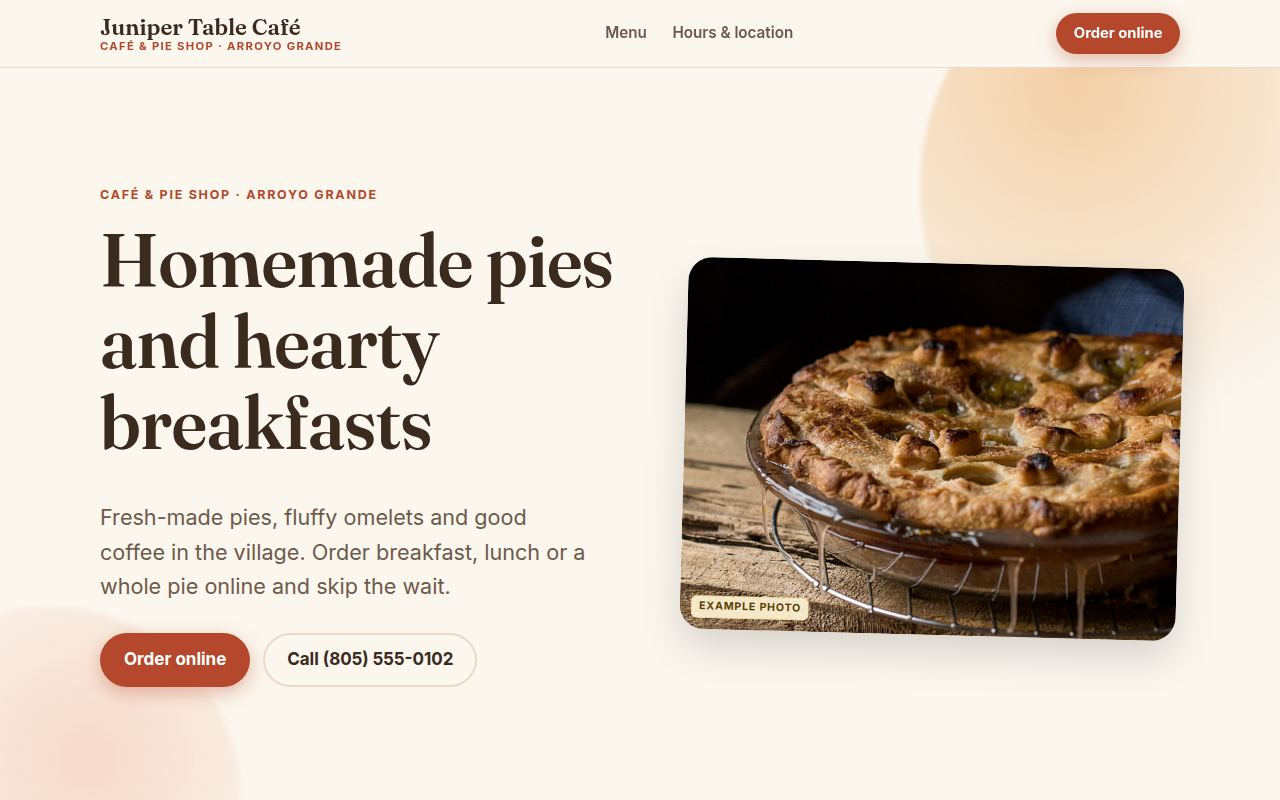
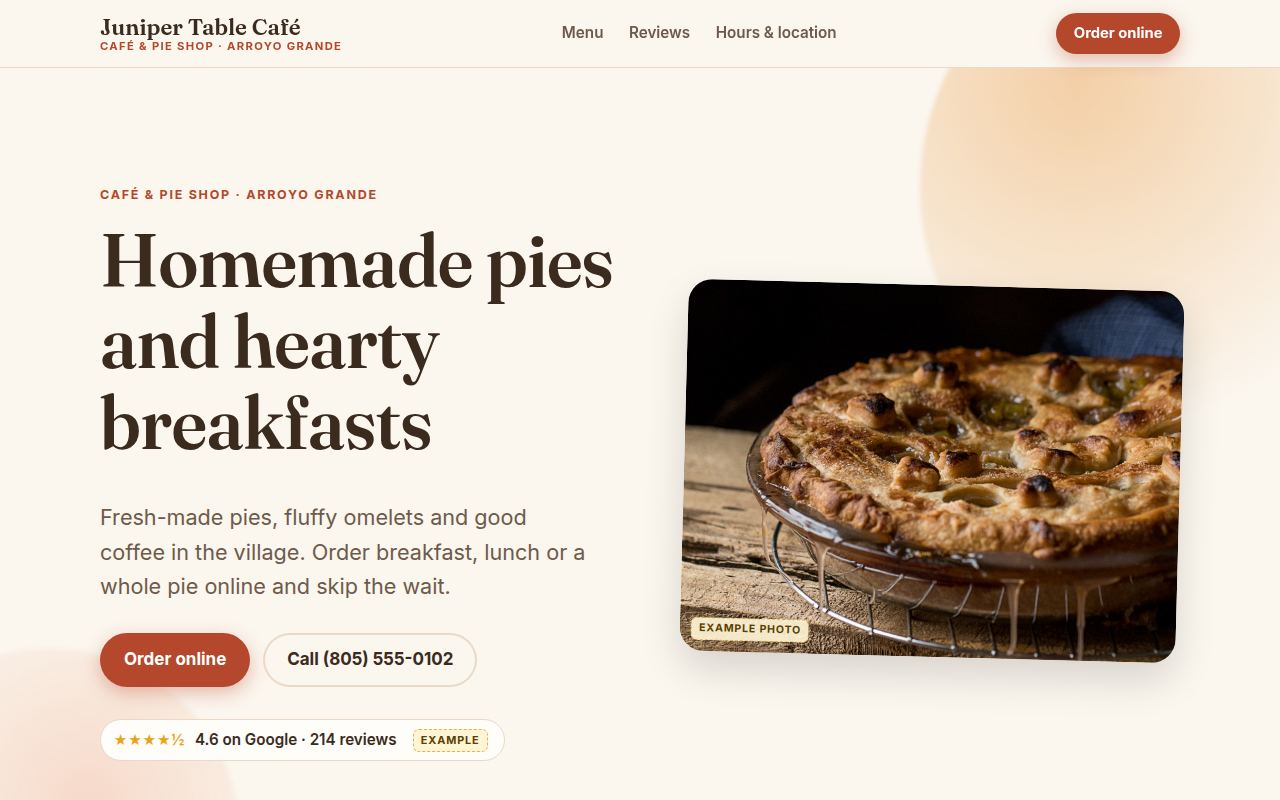
Example sites: add written example reviews, each tagged Example

Changed region(s): [[0.5312, 0.3125, 0.9375, 0.8438], [0.0625, 0.875, 0.4062, 0.9688], [0.4375, 0.0312, 0.6562, 0.0625]]

diff --git a/examples/el-girasol-panaderia/index.html b/examples/el-girasol-panaderia/index.html
@@ -148,7 +148,7 @@ dialog.flow::backdrop { background: rgba(20, 16, 18, .55); }
   <div class="wrap">
     <a class="brand" href="#top">Panadería El Girasol<small>Mexican Bakery · San Luis Obispo</small></a>
     <nav class="links" aria-label="Main">
-      <a href="#menu">Menu</a><a href="#visit">Hours &amp; location</a>
+      <a href="#menu">Menu</a><a href="#reviews">Reviews</a><a href="#visit">Hours &amp; location</a>
     </nav>
     <button class="btn small" data-open-flow>Order online</button>
   </div>
@@ -165,7 +165,7 @@ dialog.flow::backdrop { background: rgba(20, 16, 18, .55); }
         <button class="btn" data-open-flow>Order online</button>
         <a class="btn ghost" href="tel:+18055550101">Call (805) 555-0101</a>
       </div>
-      
+      <span class="rating-pill"><span class="st">★★★★½</span>4.7 on Google · 318 reviews <span class="tag">Example</span></span>
       </div>
       <figure class="hero-photo"><img src="images/photo-1.jpg" alt="Sugar-topped Mexican sweet bread" fetchpriority="high"><span class="photo-tag">Example photo</span></figure>
     </div>
@@ -184,6 +184,16 @@ dialog.flow::backdrop { background: rgba(20, 16, 18, .55); }
       <div class="menu"><div class="menu-group reveal"><h3>Pan Dulce <span class="tag">Example</span></h3><ul><li><div><strong>Conchas</strong><span class="desc">Vanilla or chocolate</span></div><span class="price">$1.50</span></li><li><div><strong>Cuernos</strong><span class="desc">Sweet crescent rolls</span></div><span class="price">$1.75</span></li><li><div><strong>Orejas</strong><span class="desc">Flaky and caramelized</span></div><span class="price">$1.75</span></li><li><div><strong>Empanadas</strong><span class="desc">Pumpkin, pineapple or cream</span></div><span class="price">$2.00</span></li></ul></div>
 <div class="menu-group reveal"><h3>Tamales <span class="tag">Example</span></h3><ul><li><div><strong>Beef</strong><span class="desc">Red chile</span></div><span class="price">$3.00</span></li><li><div><strong>Jalapeño &amp; Cheese</strong><span class="desc">A customer favorite</span></div><span class="price">$3.00</span></li><li><div><strong>Pork</strong><span class="desc">Red chile</span></div><span class="price">$3.00</span></li><li><div><strong>By the Dozen</strong><span class="desc">Mix and match</span></div><span class="price">$30</span></li></ul></div>
 <div class="menu-group reveal"><h3>Bread &amp; Drinks <span class="tag">Example</span></h3><ul><li><div><strong>Bolillos</strong><span class="desc">Baked fresh every morning</span></div><span class="price">$0.75</span></li><li><div><strong>Champurrado</strong><span class="desc">Hot chocolate atole</span></div><span class="price">$3.50</span></li><li><div><strong>Café de Olla</strong><span class="desc">Cinnamon &amp; piloncillo</span></div><span class="price">$3.00</span></li></ul></div></div>
+    </div>
+  </section>
+
+  <section id="reviews" class="alt">
+    <div class="wrap">
+      <h2>What people say</h2>
+      <p class="section-intro">4.7 stars from 318 reviews on Google. These reviews are examples.</p>
+      <div class="reviews"><figure class="review reveal"><div class="review-stars" aria-label="5 out of 5 stars">★★★★★</div><blockquote>The conchas are still warm at 6 in the morning. I grab a dozen for the office every Friday and they are gone by nine.</blockquote><figcaption>Example review · 3 weeks ago</figcaption></figure>
+<figure class="review reveal"><div class="review-stars" aria-label="5 out of 5 stars">★★★★★</div><blockquote>Best tamales in town, hands down. The jalapeño and cheese ones are my favorite, and ordering ahead online made pickup so easy.</blockquote><figcaption>Example review · 2 months ago</figcaption></figure>
+<figure class="review reveal"><div class="review-stars" aria-label="4 out of 5 stars">★★★★</div><blockquote>Friendly staff and a huge selection of pan dulce. Gets busy on weekends, so order online and skip the line.</blockquote><figcaption>Example review · a month ago</figcaption></figure></div>
     </div>
   </section>
 

diff --git a/examples/wren-nail-studio/index.html b/examples/wren-nail-studio/index.html
@@ -148,7 +148,7 @@ dialog.flow::backdrop { background: rgba(20, 16, 18, .55); }
   <div class="wrap">
     <a class="brand" href="#top">Wren Nail Studio<small>Nail Studio · Morro Bay</small></a>
     <nav class="links" aria-label="Main">
-      <a href="#menu">Services</a><a href="#visit">Hours &amp; location</a>
+      <a href="#menu">Services</a><a href="#reviews">Reviews</a><a href="#visit">Hours &amp; location</a>
     </nav>
     <button class="btn small" data-open-flow>Book now</button>
   </div>
@@ -165,7 +165,7 @@ dialog.flow::backdrop { background: rgba(20, 16, 18, .55); }
         <button class="btn" data-open-flow>Book now</button>
         <a class="btn ghost" href="tel:+18055550103">Call (805) 555-0103</a>
       </div>
-      
+      <span class="rating-pill"><span class="st">★★★★½</span>4.9 on Google · 167 reviews <span class="tag">Example</span></span>
       </div>
       <figure class="hero-photo"><img src="images/photo-1.jpg" alt="Sage green manicure" fetchpriority="high"><span class="photo-tag">Example photo</span></figure>
     </div>
@@ -184,6 +184,16 @@ dialog.flow::backdrop { background: rgba(20, 16, 18, .55); }
       <div class="menu"><div class="menu-group reveal"><h3>Manicures <span class="tag">Example</span></h3><ul><li><div><strong>Classic Manicure</strong><span class="desc">Shape, cuticle care, polish</span></div><span class="price">$25</span></li><li><div><strong>Gel Manicure</strong><span class="desc">Long-lasting shine, no chips</span></div><span class="price">$40</span></li><li><div><strong>Dip Powder</strong><span class="desc">Strong, natural-looking finish</span></div><span class="price">$45</span></li></ul></div>
 <div class="menu-group reveal"><h3>Pedicures <span class="tag">Example</span></h3><ul><li><div><strong>Classic Pedicure</strong><span class="desc">Soak, scrub, massage, polish</span></div><span class="price">$35</span></li><li><div><strong>Gel Pedicure</strong><span class="desc">Classic pedicure with gel polish</span></div><span class="price">$50</span></li><li><div><strong>Deluxe Spa Pedicure</strong><span class="desc">Extra massage, mask and hot towels</span></div><span class="price">$60</span></li></ul></div>
 <div class="menu-group reveal"><h3>Enhancements <span class="tag">Example</span></h3><ul><li><div><strong>Full Set Acrylic</strong><span class="desc">Any shape and length</span></div><span class="price">$55</span></li><li><div><strong>Fill</strong><span class="desc">Keep your set looking fresh</span></div><span class="price">$40</span></li><li><div><strong>Nail Art</strong><span class="desc">Designs, chrome, gems</span></div><span class="price">from $5</span></li></ul></div></div>
+    </div>
+  </section>
+
+  <section id="reviews" class="alt">
+    <div class="wrap">
+      <h2>What people say</h2>
+      <p class="section-intro">4.9 stars from 167 reviews on Google. These reviews are examples.</p>
+      <div class="reviews"><figure class="review reveal"><div class="review-stars" aria-label="5 out of 5 stars">★★★★★</div><blockquote>So clean and relaxing. The heated massage chairs are amazing and my gel manicure lasted almost three weeks.</blockquote><figcaption>Example review · 2 weeks ago</figcaption></figure>
+<figure class="review reveal"><div class="review-stars" aria-label="5 out of 5 stars">★★★★★</div><blockquote>They got my nail art exactly how I pictured it. Booking online took less than a minute.</blockquote><figcaption>Example review · a month ago</figcaption></figure>
+<figure class="review reveal"><div class="review-stars" aria-label="5 out of 5 stars">★★★★★</div><blockquote>Calm, friendly and never rushed. Best pedicure I have had on the Central Coast.</blockquote><figcaption>Example review · 3 months ago</figcaption></figure></div>
     </div>
   </section>
 

diff --git a/examples/juniper-table-cafe/index.html b/examples/juniper-table-cafe/index.html
@@ -148,7 +148,7 @@ dialog.flow::backdrop { background: rgba(20, 16, 18, .55); }
   <div class="wrap">
     <a class="brand" href="#top">Juniper Table Café<small>Café &amp; Pie Shop · Arroyo Grande</small></a>
     <nav class="links" aria-label="Main">
-      <a href="#menu">Menu</a><a href="#visit">Hours &amp; location</a>
+      <a href="#menu">Menu</a><a href="#reviews">Reviews</a><a href="#visit">Hours &amp; location</a>
     </nav>
     <button class="btn small" data-open-flow>Order online</button>
   </div>
@@ -165,7 +165,7 @@ dialog.flow::backdrop { background: rgba(20, 16, 18, .55); }
         <button class="btn" data-open-flow>Order online</button>
         <a class="btn ghost" href="tel:+18055550102">Call (805) 555-0102</a>
       </div>
-      
+      <span class="rating-pill"><span class="st">★★★★½</span>4.6 on Google · 214 reviews <span class="tag">Example</span></span>
       </div>
       <figure class="hero-photo"><img src="images/photo-1.jpg" alt="A golden homemade pie" fetchpriority="high"><span class="photo-tag">Example photo</span></figure>
     </div>
@@ -185,6 +185,16 @@ dialog.flow::backdrop { background: rgba(20, 16, 18, .55); }
 <div class="menu-group reveal"><h3>Lunch <span class="tag">Example</span></h3><ul><li><div><strong>Turkey Sandwich</strong><span class="desc">On fresh-baked bread</span></div><span class="price">$13.50</span></li><li><div><strong>Club Sandwich</strong><span class="desc">The house special</span></div><span class="price">$14.50</span></li><li><div><strong>Soup of the Day</strong><span class="desc">Cup or bowl</span></div><span class="price">$7.95</span></li></ul></div>
 <div class="menu-group reveal"><h3>Pies &amp; Bakery <span class="tag">Example</span></h3><ul><li><div><strong>Key Lime Pie</strong><span class="desc">Whole 9-inch pie</span></div><span class="price">$24</span></li><li><div><strong>Pumpkin Pie</strong><span class="desc">Seasonal favorite</span></div><span class="price">$22</span></li><li><div><strong>Pie by the Slice</strong><span class="desc">Ask what&#x27;s fresh today</span></div><span class="price">$5.50</span></li></ul></div>
 <div class="menu-group reveal"><h3>Drinks <span class="tag">Example</span></h3><ul><li><div><strong>Pumpkin Latte</strong><span class="desc">Seasonal</span></div><span class="price">$5.25</span></li><li><div><strong>Fresh-Brewed Coffee</strong><span class="desc">Free refills</span></div><span class="price">$3.00</span></li></ul></div></div>
+    </div>
+  </section>
+
+  <section id="reviews" class="alt">
+    <div class="wrap">
+      <h2>What people say</h2>
+      <p class="section-intro">4.6 stars from 214 reviews on Google. These reviews are examples.</p>
+      <div class="reviews"><figure class="review reveal"><div class="review-stars" aria-label="5 out of 5 stars">★★★★★</div><blockquote>We ordered a whole key lime pie for my mom&#x27;s birthday and it was perfect. The breakfast is just as good as the pie.</blockquote><figcaption>Example review · a week ago</figcaption></figure>
+<figure class="review reveal"><div class="review-stars" aria-label="5 out of 5 stars">★★★★★</div><blockquote>Fluffy omelets, great hash browns and the coffee keeps coming. Our new Sunday spot.</blockquote><figcaption>Example review · 2 months ago</figcaption></figure>
+<figure class="review reveal"><div class="review-stars" aria-label="4 out of 5 stars">★★★★</div><blockquote>Cozy little café with homemade everything. The club sandwich was huge and the soup of the day was excellent.</blockquote><figcaption>Example review · 3 weeks ago</figcaption></figure></div>
     </div>
   </section>
 

diff --git a/examples/copper-comb-barbershop/index.html b/examples/copper-comb-barbershop/index.html
@@ -148,7 +148,7 @@ dialog.flow::backdrop { background: rgba(20, 16, 18, .55); }
   <div class="wrap">
     <a class="brand" href="#top">Copper Comb Barbershop<small>Barbershop · Paso Robles</small></a>
     <nav class="links" aria-label="Main">
-      <a href="#menu">Services</a><a href="#visit">Hours &amp; location</a>
+      <a href="#menu">Services</a><a href="#reviews">Reviews</a><a href="#visit">Hours &amp; location</a>
     </nav>
     <button class="btn small" data-open-flow>Book now</button>
   </div>
@@ -165,7 +165,7 @@ dialog.flow::backdrop { background: rgba(20, 16, 18, .55); }
         <button class="btn" data-open-flow>Book now</button>
         <a class="btn ghost" href="tel:+18055550104">Call (805) 555-0104</a>
       </div>
-      
+      <span class="rating-pill"><span class="st">★★★★½</span>4.8 on Google · 241 reviews <span class="tag">Example</span></span>
       </div>
       <figure class="hero-photo"><img src="images/photo-1.jpg" alt="Barber giving a fade" fetchpriority="high"><span class="photo-tag">Example photo</span></figure>
     </div>
@@ -183,6 +183,16 @@ dialog.flow::backdrop { background: rgba(20, 16, 18, .55); }
       <p class="section-intro">Example items and prices, to show how a full menu looks on the site.</p>
       <div class="menu"><div class="menu-group reveal"><h3>Cuts <span class="tag">Example</span></h3><ul><li><div><strong>Haircut</strong><span class="desc">Scissor or clipper cut</span></div><span class="price">$40</span></li><li><div><strong>Skin Fade</strong><span class="desc">Clean, crisp blend</span></div><span class="price">$45</span></li><li><div><strong>Kids&#x27; Cut</strong><span class="desc">12 and under</span></div><span class="price">$30</span></li><li><div><strong>Buzz Cut</strong><span class="desc">One length all over</span></div><span class="price">$25</span></li></ul></div>
 <div class="menu-group reveal"><h3>Beard &amp; Shave <span class="tag">Example</span></h3><ul><li><div><strong>Beard Trim</strong><span class="desc">Shape and line-up</span></div><span class="price">$20</span></li><li><div><strong>Hot Towel Shave</strong><span class="desc">Straight razor finish</span></div><span class="price">$40</span></li><li><div><strong>Cut + Beard</strong><span class="desc">The full refresh</span></div><span class="price">$55</span></li></ul></div></div>
+    </div>
+  </section>
+
+  <section id="reviews" class="alt">
+    <div class="wrap">
+      <h2>What people say</h2>
+      <p class="section-intro">4.8 stars from 241 reviews on Google. These reviews are examples.</p>
+      <div class="reviews"><figure class="review reveal"><div class="review-stars" aria-label="5 out of 5 stars">★★★★★</div><blockquote>Cleanest fade I have had in years. Booked online the night before and was in the chair right on time.</blockquote><figcaption>Example review · 5 days ago</figcaption></figure>
+<figure class="review reveal"><div class="review-stars" aria-label="5 out of 5 stars">★★★★★</div><blockquote>The hot towel shave is worth every penny. Great conversation and a sharp finish.</blockquote><figcaption>Example review · a month ago</figcaption></figure>
+<figure class="review reveal"><div class="review-stars" aria-label="5 out of 5 stars">★★★★★</div><blockquote>Brought my son in for his first real haircut and they were so patient with him. We will be back.</blockquote><figcaption>Example review · 2 months ago</figcaption></figure></div>
     </div>
   </section>
 

diff --git a/tools/make_examples.py b/tools/make_examples.py
@@ -2,7 +2,8 @@
 
 Each one reuses the design of a real lead demo (palette, fonts, photos, layout) through the
 demo builder, but with a made-up business: invented name, 555 phone, generic address, no
-Google rating or reviews, and a banner that says the business is made up.
+real reviews (the reviews shown are written examples, each tagged "Example"), and a banner
+that says the business is made up.
 
     python3 -I tools/make_examples.py      # run from the buildwithridge folder
 writes examples/<slug>/index.html and copies the stock photos next to it.
@@ -79,10 +80,100 @@ EXAMPLES = {
 }
 
 
-def strip_real_proof(page: str, name: str) -> str:
-    page = re.sub(r'<span class="rating-pill"><span class="st">[^<]*</span>[^<]*</span>', "", page)
-    page = re.sub(r'\s*<section id="reviews".*?</section>', "", page, flags=re.S)
-    page = page.replace('<a href="#reviews">Reviews</a>', "")
+# Example reviews for the made-up businesses. They look like Google reviews but every one is
+# tagged "Example", and so is the rating badge, so nobody can take them for real reviews.
+REVIEWS = {
+ "el-girasol-panaderia": [
+  4.7,
+  318,
+  [
+   [
+    5,
+    "3 weeks ago",
+    "The conchas are still warm at 6 in the morning. I grab a dozen for the office every Friday and they are gone by nine."
+   ],
+   [
+    5,
+    "2 months ago",
+    "Best tamales in town, hands down. The jalapeño and cheese ones are my favorite, and ordering ahead online made pickup so easy."
+   ],
+   [
+    4,
+    "a month ago",
+    "Friendly staff and a huge selection of pan dulce. Gets busy on weekends, so order online and skip the line."
+   ]
+  ]
+ ],
+ "juniper-table-cafe": [
+  4.6,
+  214,
+  [
+   [
+    5,
+    "a week ago",
+    "We ordered a whole key lime pie for my mom's birthday and it was perfect. The breakfast is just as good as the pie."
+   ],
+   [
+    5,
+    "2 months ago",
+    "Fluffy omelets, great hash browns and the coffee keeps coming. Our new Sunday spot."
+   ],
+   [
+    4,
+    "3 weeks ago",
+    "Cozy little café with homemade everything. The club sandwich was huge and the soup of the day was excellent."
+   ]
+  ]
+ ],
+ "wren-nail-studio": [
+  4.9,
+  167,
+  [
+   [
+    5,
+    "2 weeks ago",
+    "So clean and relaxing. The heated massage chairs are amazing and my gel manicure lasted almost three weeks."
+   ],
+   [
+    5,
+    "a month ago",
+    "They got my nail art exactly how I pictured it. Booking online took less than a minute."
+   ],
+   [
+    5,
+    "3 months ago",
+    "Calm, friendly and never rushed. Best pedicure I have had on the Central Coast."
+   ]
+  ]
+ ],
+ "copper-comb-barbershop": [
+  4.8,
+  241,
+  [
+   [
+    5,
+    "5 days ago",
+    "Cleanest fade I have had in years. Booked online the night before and was in the chair right on time."
+   ],
+   [
+    5,
+    "a month ago",
+    "The hot towel shave is worth every penny. Great conversation and a sharp finish."
+   ],
+   [
+    5,
+    "2 months ago",
+    "Brought my son in for his first real haircut and they were so patient with him. We will be back."
+   ]
+  ]
+ ]
+}
+
+
+def label_example_proof(page: str, name: str) -> str:
+    page = re.sub(r'(<span class="rating-pill">.*?reviews)</span>', r'\1 <span class="tag">Example</span></span>', page, count=1, flags=re.S)
+    page = page.replace("<figcaption>Google review · ", "<figcaption>Example review · ")
+    page = re.sub(r'(<p class="section-intro">[^<]*reviews on Google\.)</p>', r'\1 These reviews are examples.</p>', page)
     page = re.sub(r'<div class="demo-note">.*?</div>',
                   f'<div class="demo-note">Example site by Ridge. {bd.E(name)} is a made-up business; '
                   f'items tagged “Example” are placeholders.</div>', page, flags=re.S)
@@ -96,7 +187,8 @@ def main():
         site.update({k: v for k, v in ex["site"].items() if k != "menu_patch"})
         site["display_name"] = ex["name"]
         site["town"] = ex["town"]
-        site["reviews"] = []
+        rating, total, reviews = REVIEWS[slug]
+        site["reviews"] = [{"i": i} for i in range(len(reviews))]
         site["menu_intro"] = "Example items and prices, to show how a full menu looks on the site."
         for group in site.get("menu", []):
             for item in group["items"]:
@@ -104,12 +196,13 @@ def main():
                 if item["name"] == "Ham & Cheese Omelet":
                     item["desc"] = "Black Forest ham and cheddar"
         lead = {"name": ex["name"], "address": ex["address"], "phone": ex["phone"], "hours": ex["hours"],
-                "rating": 5, "reviews_total": 0, "reviews": []}
+                "rating": rating, "reviews_total": total,
+                "reviews": [{"rating": r, "when": w, "text": t} for r, w, t in reviews]}
         bd.SITES[slug] = site
         bd.LEADS[str(site["lead_id"]) + "-" + slug] = lead
         site["lead_id"] = str(site["lead_id"]) + "-" + slug
         bd.PHOTOS[slug] = bd.PHOTOS.get(src, [])
-        page = strip_real_proof(bd.build(slug), ex["name"])
+        page = label_example_proof(bd.build(slug), ex["name"])
         out = ROOT / "examples" / slug
         (out / "images").mkdir(parents=True, exist_ok=True)
         for f in (BUILDER.parent / src / "images").glob("photo-*.jpg"):
